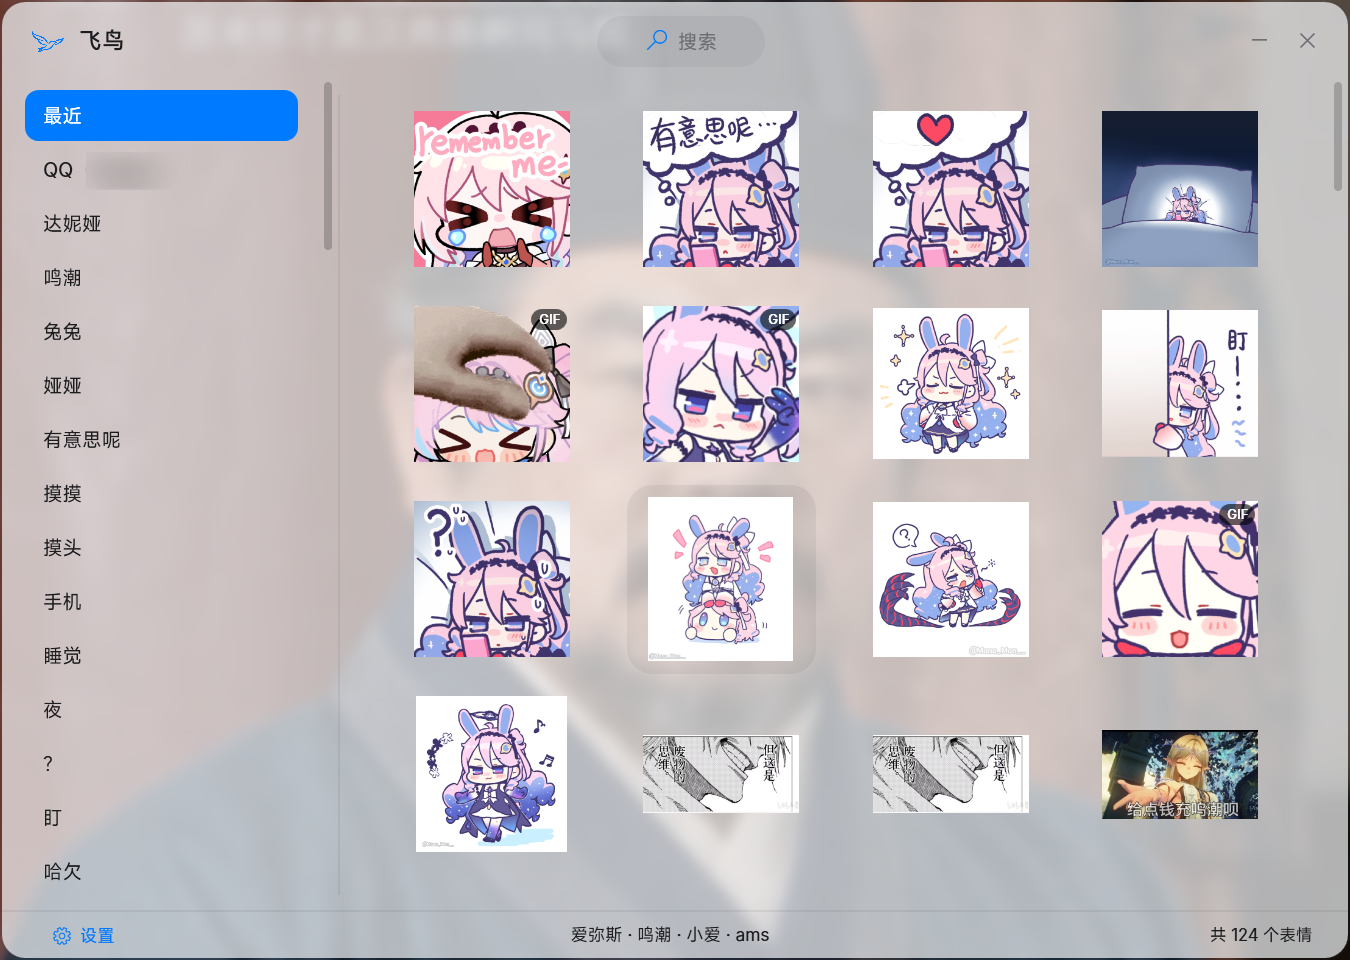
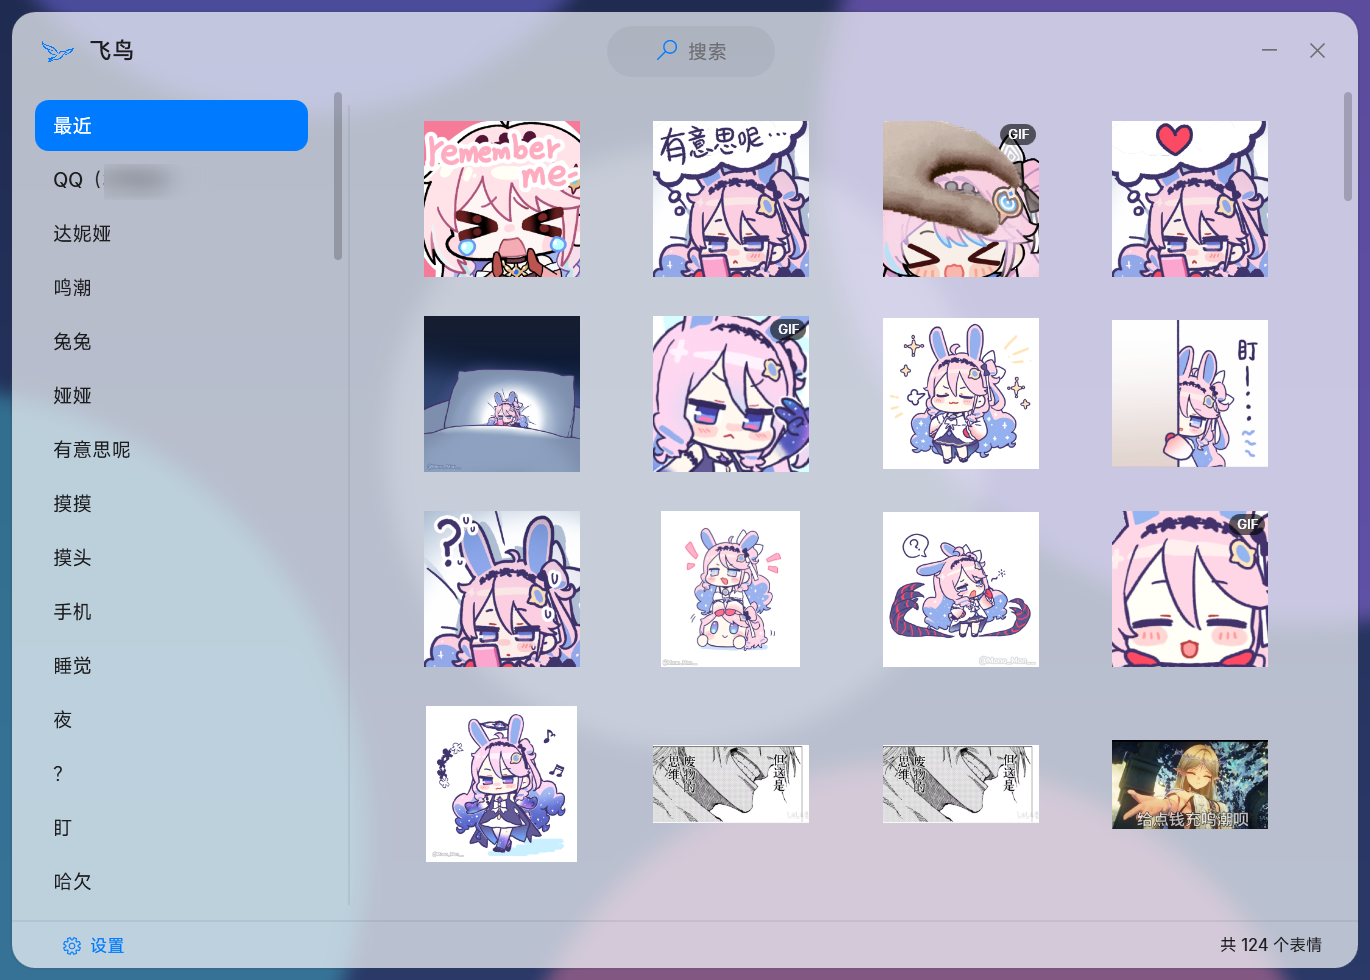
文档：快速使用前置 + 新设置项「提示停留时长」+ 背景图版截图
- 两份 README 开头新增「快速使用」四步上手，安装章节前移
- 同步新设置项：提示停留时长（3-15 秒滑块，默认 8，资源库组）
- 三张截图重摄：自生成 aurora 渐变光斑图为背景，展示雾玻璃效果（不改系统壁纸）
- 侧栏 QQ 尾号延续脱敏处理

diff --git a/README.en.md b/README.en.md
@@ -29,6 +29,38 @@ together when you're done, just like a native feature. Any app that accepts past
 <img src="docs/images/main-window.png" width="720" alt="Asuka main window" />
 </div>
 
+## 🚀 Quick Start
+
+1. **Download & run**: grab `Asuka.zip` from [Releases](../../releases), unzip and run `Asuka.exe` (needs the [.NET 10 Desktop Runtime](https://dotnet.microsoft.com/download/dotnet/10.0), x64 — see Installation below)
+2. **Import stickers**: drag image files or whole folders onto the window, then batch-tag them
+3. **Send**: press `Ctrl+Alt+D` in any chat input to summon the quick panel, then click a sticker to paste it
+4. **Go further**: bind your QQ account under Settings → QQ integration to mirror your favorites; "copy image" in any app to import it with one click
+
+Step 3 is already the whole loop — everything below is detail.
+
+## 📦 Installation
+
+### Download (recommended)
+
+Grab the latest `Asuka.zip` from [Releases](../../releases), unzip and run `Asuka.exe`.
+
+> Single-file build; requires the [.NET 10 Desktop Runtime](https://dotnet.microsoft.com/download/dotnet/10.0) (x64).
+
+### Build from source
+
+```bash
+git clone https://github.com/<your-name>/OICQStickerManager.git
+cd OICQStickerManager
+dotnet build -c Release
+# output in bin/Release/net10.0-windows/
+```
+
+Requires Windows 10/11 and the .NET 10 SDK (desktop workload included). To publish a single file:
+
+```bash
+dotnet publish -c Release -r win-x64 --self-contained false -p:PublishSingleFile=true -o publish
+```
+
 ## ✨ Key Features
 
 ### Library
@@ -58,30 +90,7 @@ together when you're done, just like a native feature. Any app that accepts past
 - **Tray resident**: close-to-tray (asks once and remembers), launch on startup, silent tray start, single instance
 - **No silent data loss**: atomic writes + backup + self-healing recovery for all persisted data, with a visible alert if anything ever fails
 
-## 📦 Installation
-
-### Download (recommended)
-
-Grab the latest `Asuka.zip` from [Releases](../../releases), unzip and run `Asuka.exe`.
-
-> Single-file build; requires the [.NET 10 Desktop Runtime](https://dotnet.microsoft.com/download/dotnet/10.0) (x64).
-
-### Build from source
-
-```bash
-git clone https://github.com/<your-name>/OICQStickerManager.git
-cd OICQStickerManager
-dotnet build -c Release
-# output in bin/Release/net10.0-windows/
-```
-
-Requires Windows 10/11 and the .NET 10 SDK (desktop workload included). To publish a single file:
-
-```bash
-dotnet publish -c Release -r win-x64 --self-contained false -p:PublishSingleFile=true -o publish
-```
-
-## 🚀 Usage
+## 📖 Usage
 
 ### 1. Import stickers
 
@@ -160,6 +169,7 @@ Open Settings from the bottom-left of the main window.
 |---|---|
 | GIF hover preview | Plays animated bubbles when hovering stickers |
 | Prompt to import copied images | "Copy image" in QQ, browsers or any app → one-click import toast at the bottom-right |
+| Toast duration | How long the import toast stays on screen (3–15 s, default 8); an unanswered toast counts as ignored and dismisses itself |
 | WebP image support | Shows system WebP decoding status; links to the Microsoft Store "WebP Image Extension" when missing, with a re-check button |
 | Open sticker folder | Opens the local library directory |
 

diff --git a/README.md b/README.md
@@ -26,6 +26,38 @@
 <img src="docs/images/main-window.png" width="720" alt="飞鸟主窗口" />
 </div>
 
+## 🚀 快速使用
+
+1. **下载运行**：到 [Releases](../../releases) 下载 `Asuka.zip`，解压后运行 `Asuka.exe`（需 [.NET 10 Desktop Runtime](https://dotnet.microsoft.com/download/dotnet/10.0) x64，详见下文安装）
+2. **导入表情**：把表情图片或整个文件夹拖进窗口，批量打好标签
+3. **发送**：在聊天输入框按 `Ctrl+Alt+D` 唤出快捷面板，点击表情即自动粘贴发送
+4. **进阶**：在 设置 → QQ 联动 中绑定 QQ 账号同步收藏表情；在任意应用里「复制图片」可一键入库
+
+到第 3 步就已经能用了，往下是完整的功能与设置说明。
+
+## 📦 安装
+
+### 下载成品（推荐）
+
+到 [Releases](../../releases) 下载最新版 `Asuka.zip`，解压后运行 `Asuka.exe`。
+
+> 单文件发布，需要安装 [.NET 10 Desktop Runtime](https://dotnet.microsoft.com/download/dotnet/10.0)（x64）。
+
+### 从源码构建
+
+```bash
+git clone https://github.com/<你的用户名>/OICQStickerManager.git
+cd OICQStickerManager
+dotnet build -c Release
+# 产物在 bin/Release/net10.0-windows/
+```
+
+需要 Windows 10/11 + .NET 10 SDK（含桌面工作负载）。发布单文件：
+
+```bash
+dotnet publish -c Release -r win-x64 --self-contained false -p:PublishSingleFile=true -o publish
+```
+
 ## ✨ 关键特性
 
 ### 图库管理
@@ -60,30 +92,7 @@
 - **托盘常驻**：关闭到托盘（首次询问并记住选择）、开机自启动、启动静默驻留、单实例
 - **失败可见**：数据保存采用原子写 + 备份 + 损坏自愈，异常必弹窗提示，绝不静默丢数据
 
-## 📦 安装
-
-### 下载成品（推荐）
-
-到 [Releases](../../releases) 下载最新版 `Asuka.zip`，解压后运行 `Asuka.exe`。
-
-> 单文件发布，需要安装 [.NET 10 Desktop Runtime](https://dotnet.microsoft.com/download/dotnet/10.0)（x64）。
-
-### 从源码构建
-
-```bash
-git clone https://github.com/<你的用户名>/OICQStickerManager.git
-cd OICQStickerManager
-dotnet build -c Release
-# 产物在 bin/Release/net10.0-windows/
-```
-
-需要 Windows 10/11 + .NET 10 SDK（含桌面工作负载）。发布单文件：
-
-```bash
-dotnet publish -c Release -r win-x64 --self-contained false -p:PublishSingleFile=true -o publish
-```
-
-## 🚀 使用方法
+## 📖 使用详解
 
 ### 1. 导入表情
 
@@ -165,6 +174,7 @@ dotnet publish -c Release -r win-x64 --self-contained false -p:PublishSingleFile
 |---|---|
 | GIF 悬浮预览 | 悬浮表情时自动播放动图气泡 |
 | 复制图片后提示入库 | 在 QQ、浏览器等任意应用里「复制图片」后，右下角弹出一键入库提示 |
+| 提示停留时长 | 入库轻提示的停留秒数（3–15，默认 8），超时未处理视为忽略并自动消失 |
 | WebP 图片支持 | 显示系统 WebP 解码支持状态；未安装时可跳转微软商店安装「WebP 图像扩展」，支持重新检测 |
 | 打开表情存放文件夹 | 直接打开本地图库目录 |
 
